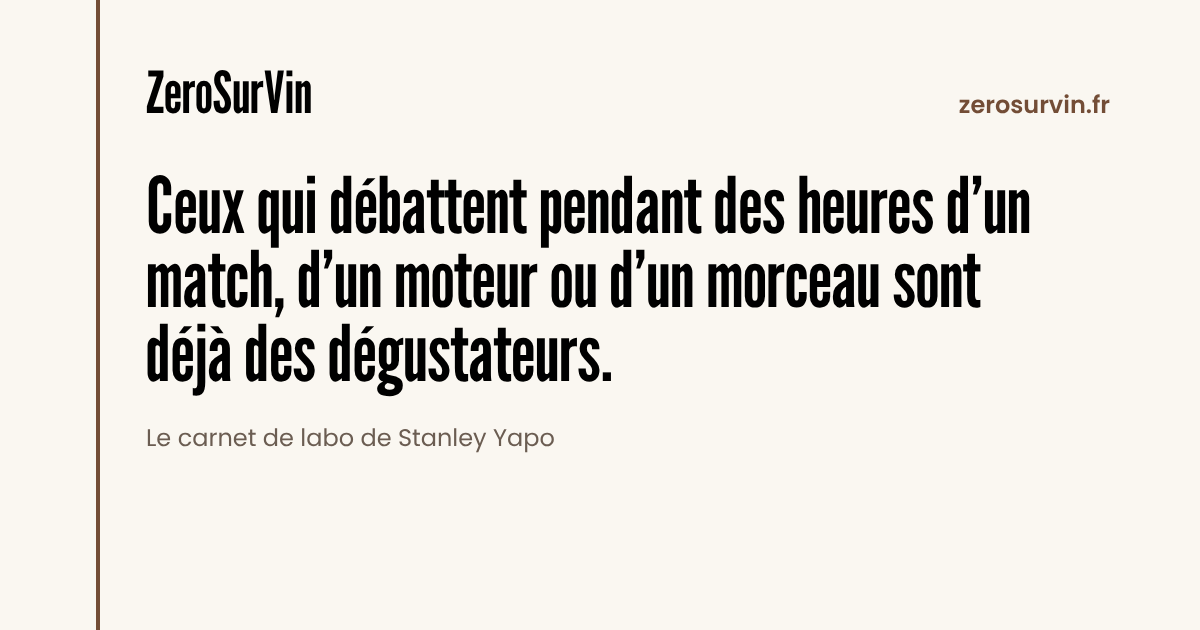
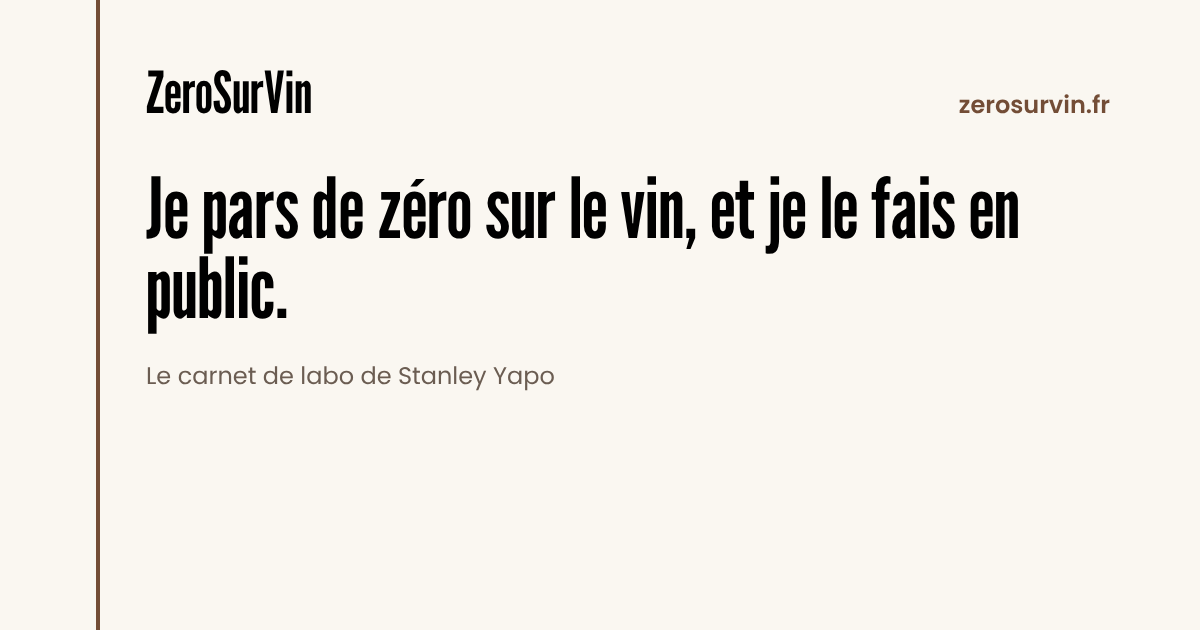
Mise à jour de la page du 23/11/2026
Nouveau titre et texte d'ouverture, signature sans recherche d'emploi,
« La suite » à jour, date de mise à jour et image d'aperçu du lien refaites.

Claude-Session: https://claude.ai/code/session_01CQVLWmyQ8qSzSsJsLwjPUR

Changed region(s): [[0.1233, 0.2714, 0.8633, 0.6333], [0.1233, 0.6635, 0.4625, 0.7238]]

diff --git a/index.html b/index.html
@@ -140,9 +140,9 @@ footer .sante{color:var(--encre);font-weight:500}
 
 <main>
 <div class="ouverture">
-  <h1>Ceux qui débattent pendant des heures d’un match, d’un moteur ou d’un morceau sont déjà des dégustateurs.</h1>
-  <p class="chapeau">Personne ne leur a jamais ouvert la porte du vin. Depuis juillet 2026, je teste en public comment le faire, et je publie les chiffres, y compris quand ils me donnent tort.</p>
-  <p class="signature">Stanley Yapo, à Bordeaux. Je cherche à rejoindre une équipe marketing ou communication de la filière bordelaise.</p>
+  <h1>Je pars de zéro sur le vin, et je le fais en public.</h1>
+  <p class="chapeau">Un fan de jeu vidéo, de mangas, de voitures ou de montres peut parler des heures d’un détail : c’est un amateur de vin en puissance. Depuis juillet 2026, je teste comment lui ouvrir la porte, et je publie les chiffres, y compris quand ils me donnent tort.</p>
+  <p class="signature">Stanley Yapo, à Bordeaux. Formé au marketing à Kedge Business School.</p>
   <p class="liens"><a href="mailto:yapo.stanley@gmail.com">yapo.stanley@gmail.com</a><a href="https://www.linkedin.com/in/stanley-yapo">Mon profil LinkedIn</a></p>
 </div>
 
@@ -267,7 +267,7 @@ footer .sante{color:var(--encre);font-weight:500}
 <section aria-labelledby="t-suite">
   <div class="prose">
     <h2 id="t-suite">La suite</h2>
-    <p>À partir de novembre, les premières passerelles : le vin devient l’invité d’un sujet qui a déjà son public. Trois vidéos par semaine sur TikTok, le carnet de labo deux fois par semaine sur LinkedIn, et cette page mise à jour chaque mois.</p>
+    <p>Le prochain test : sortir de la bulle, en faisant du vin l’invité d’un sujet qui a déjà son public. La mesure : la part des novices et des curieux dans les commentaires, 3,5 % au point zéro. Le carnet de labo continue sur LinkedIn, deux fois par semaine.</p>
     <p>Vous travaillez dans le vin et le sujet vous parle ? Écrivez-moi.</p>
     <p class="liens"><a href="mailto:yapo.stanley@gmail.com">yapo.stanley@gmail.com</a><a href="https://www.linkedin.com/in/stanley-yapo">Mon profil LinkedIn</a></p>
   </div>
@@ -276,7 +276,7 @@ footer .sante{color:var(--encre);font-weight:500}
 
 <footer>
   <p class="sante">L’abus d’alcool est dangereux pour la santé, à consommer avec modération.</p>
-  <p>Page mise à jour le 12 octobre 2026.</p>
+  <p>Page mise à jour le 23 novembre 2026.</p>
   <p>Mentions légales. Site personnel édité par Stanley Yapo, Bordeaux (yapo.stanley@gmail.com). Hébergé par GitHub, Inc., 88 Colin P. Kelly Jr. Street, San Francisco, CA 94107, États-Unis. Ce site ne dépose aucun cookie et ne contient aucun outil de mesure d’audience.</p>
 </footer>
 
